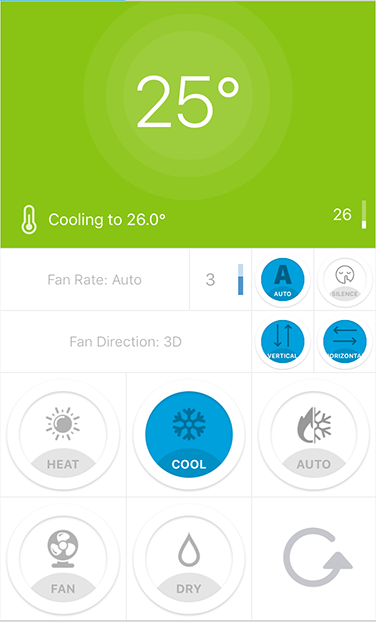
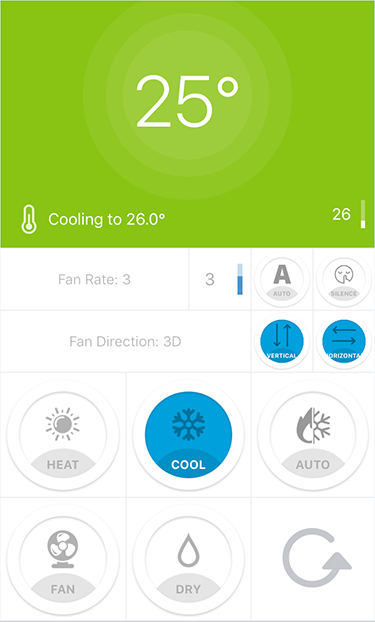
Updated README and preview image

diff --git a/README.md b/README.md
@@ -2,12 +2,22 @@
 
 ![Preview of device page in SmartThings interface](https://raw.githubusercontent.com/bendews/smartthings-daikin-wifi/master/preview.png)
 
-This Device type allows the integration of Daikin Split Systems that have the optional "WiFi module" installed. 
+This Device type allows the integration of Daikin Split Systems that have the optional "WiFi module" installed. Most commonly, this is the "BRP072A42" module. This Device Type has only been tested with that module, however other modules (such as the BRP069A42) should be compatible.
 
-Most commonly, this is the "BRP072A42" module. This Device Type has only been tested with that module, however other modules (such as the BRP069A42) should be compatible.
+It implements the SmartThings "Thermostat" capability, which means it has full compatibility with most thermostat automations and allows integration with platforms such as Google Home.
 
 Note that "P" Series units (FTXMxxP) do not support fan direction or rate controls.
 
+## Features
+
+- Ability to set desired temperature
+- Ability to set desired mode (Auto, Cool, Heat, Dry, Fan)
+- Seperate temperatures for each mode
+- See current environment temperature
+- Adjustment of fan direction (Horizontal, Vertical and "3D")
+- Adjustment of fan rate (0-5, Auto, Silence)
+
+Future revisions will also add a parameter for viewing the outside temperature
 
 ## To Install
 
@@ -39,7 +49,7 @@ Once created, we can then open the settings for the device, and fill out the fol
 
 - **Daikin WiFi IP Address:** The IP address of the WiFi unit
 - **Daikin WiFi Port:** Ensure this is set to 80 if you are not sure
-- **Refresh Interval in minutes:** The device will refresh automatically when tasks are triggered by SmartThings, however if it is being controlled by other means (I.E a remote), the state will go out of sync. This setting will refresh the device information on a set interval. 10 minutes or higher is strongly reccomended.
+- **Refresh Interval in minutes:** The device will refresh automatically when tasks are triggered by SmartThings, however if it is being controlled by other means (I.E a remote), the state will go out of sync. This setting will refresh the device information on a set interval. 10 minutes or higher is strongly recommended.
 
 # License
 [MIT](https://github.com/bendews/smartthings-daikin-wifi/master/LICENSE)
